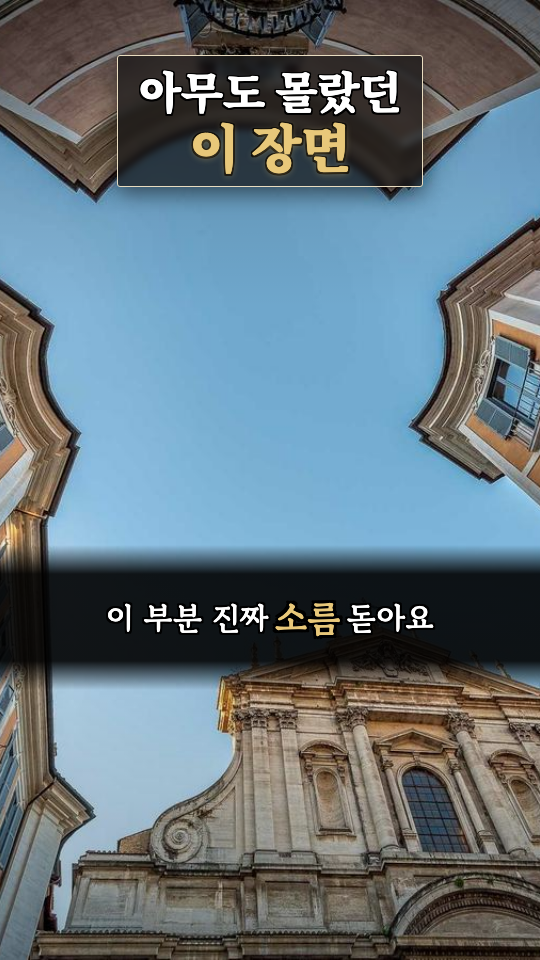
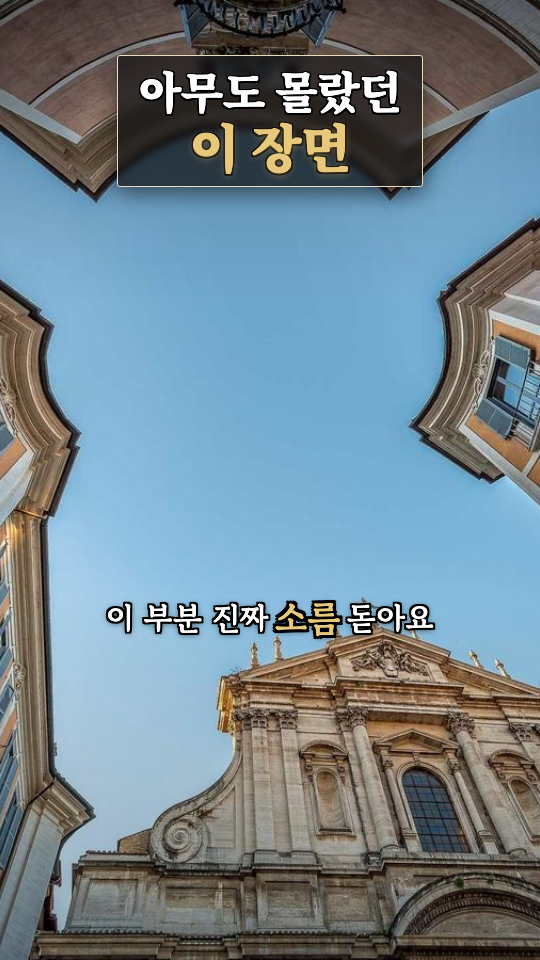
fix: 디자인 템플릿 자막이 영상 가리던 띠/박스 제거 (감성 시네마 제외, v2.0.1)
테리 피드백: 상단 후킹은 OK인데 중간에 띠/박스가 생겨 영상을 가림.
감성 시네마(plain)만 두고 나머지 템플릿도 영상을 최대한 안 가리게 수정.
- Scene.tsx fullBleed: subStyle 'bar'(불투명 그라데이션 띠)·'box'(단어 검정 박스)
  렌더 제거 → 글자+두꺼운 외곽선+소프트 드롭섀도만(배경 투명). 띠 없이도 어떤
  영상 위에서든 읽힘. 시네마(plain)는 기존 그대로.
- TemplatePreview.tsx 동일 적용 + 미리보기 PNG 6장 재생성(web/tpl-preview).
- 템플릿 구분은 상단 후킹·폰트·강조색으로 유지.

검증: tsc 0, 미리보기 6장 재렌더 육안확인(예능=띠사라짐·네온=박스사라짐·시네마=불변)

Changed region(s): [[0.0, 0.5625, 1.0, 0.7188]]

diff --git a/src/Scene.tsx b/src/Scene.tsx
@@ -180,24 +180,25 @@ export const Scene: React.FC<SceneData> = ({
           if (cur < 0) cur = 0;
           const start = Math.max(0, Math.min(cur - 1, words.length - WIN));
           const win = words.slice(start, start + WIN);
-          const barBg = T.subStyle === 'bar'
-            ? 'linear-gradient(to bottom, rgba(0,0,0,0) 0%, rgba(0,0,0,0.9) 20%, rgba(0,0,0,0.9) 80%, rgba(0,0,0,0) 100%)'
-            : 'transparent';
+          // ★영상을 최대한 가리지 않기: 띠(bar)·단어 박스(box)를 모두 없애고 글자만 렌더한다(감성 시네마=plain과 동일 원리).
+          //   가독성은 두꺼운 검정 외곽선 + 부드러운 드롭섀도로 확보(배경 띠 없이도 어떤 영상 위에서도 읽힘).
+          //   템플릿 구분은 상단 후킹 스타일·폰트(subFont)·강조색(subActive)으로 유지된다.
+          const plain = T.subStyle === 'plain'; // 시네마는 기존 그대로(순수 외곽선만)
           return (
             <div style={{
               position: 'absolute', left: 0, right: 0, top: L.hlSubTop, height: L.hlSubH,
               display: 'flex', flexWrap: 'wrap', justifyContent: 'center', alignItems: 'center',
-              gap: L.subGap, padding: L.subPad, boxSizing: 'border-box', background: barBg,
+              gap: L.subGap, padding: L.subPad, boxSizing: 'border-box', background: 'transparent',
             }}>
               {win.map((w, i) => {
                 const active = frame >= w.s && frame < w.e;
-                const boxed = T.subStyle === 'box';
                 return (
                   <span key={start + i} style={{
                     fontFamily: T.subFont, fontWeight: 800, fontSize: L.fsSub,
-                    color: active ? T.subActive : '#fff', textShadow: outline(active ? 5 : 4),
+                    color: active ? T.subActive : '#fff',
+                    // 시네마(plain)는 기존 외곽선만, 나머지는 외곽선 + 소프트 섀도(띠 없이 가독성 보강).
+                    textShadow: plain ? outline(active ? 5 : 4) : `${outline(active ? 5 : 4)}, 0 2px 12px rgba(0,0,0,0.95)`,
                     transform: active ? 'scale(1.14)' : 'scale(1)', display: 'inline-block',
-                    ...(boxed ? {background: active ? 'rgba(0,0,0,0.85)' : 'rgba(0,0,0,0.6)', padding: '4px 14px', borderRadius: 10} : {}),
                   }}>{w.t}</span>
                 );
               })}

diff --git a/src/TemplatePreview.tsx b/src/TemplatePreview.tsx
@@ -54,9 +54,8 @@ export const TemplatePreview: React.FC<TemplatePreviewData> = ({template, image,
   const lightBg = T.hookStyle === 'bubble';
   const olTop = lightBg ? 0 : 3;
 
-  const barBg = T.subStyle === 'bar'
-    ? 'linear-gradient(to bottom, rgba(0,0,0,0) 0%, rgba(0,0,0,0.9) 20%, rgba(0,0,0,0.9) 80%, rgba(0,0,0,0) 100%)'
-    : 'transparent';
+  // ★Scene.tsx와 동일: 띠·박스 제거(영상 안 가림). 가독성은 외곽선+소프트 섀도로. 시네마(plain)는 외곽선만.
+  const plain = T.subStyle === 'plain';
 
   return (
     <AbsoluteFill style={{backgroundColor: '#000'}}>
@@ -84,17 +83,16 @@ export const TemplatePreview: React.FC<TemplatePreviewData> = ({template, image,
         <div style={{
           position: 'absolute', left: 0, right: 0, top: L.hlSubTop, height: L.hlSubH,
           display: 'flex', flexWrap: 'wrap', justifyContent: 'center', alignItems: 'center',
-          gap: L.subGap, padding: L.subPad, boxSizing: 'border-box', background: barBg,
+          gap: L.subGap, padding: L.subPad, boxSizing: 'border-box', background: 'transparent',
         }}>
           {subWords.map((t, i) => {
             const active = i === subActiveIndex;
-            const boxed = T.subStyle === 'box';
             return (
               <span key={i} style={{
                 fontFamily: T.subFont, fontWeight: 800, fontSize: L.fsSub,
-                color: active ? T.subActive : '#fff', textShadow: outline(active ? 5 : 4),
+                color: active ? T.subActive : '#fff',
+                textShadow: plain ? outline(active ? 5 : 4) : `${outline(active ? 5 : 4)}, 0 2px 12px rgba(0,0,0,0.95)`,
                 transform: active ? 'scale(1.14)' : 'scale(1)', display: 'inline-block',
-                ...(boxed ? {background: active ? 'rgba(0,0,0,0.85)' : 'rgba(0,0,0,0.6)', padding: '4px 14px', borderRadius: 10} : {}),
               }}>{t}</span>
             );
           })}
